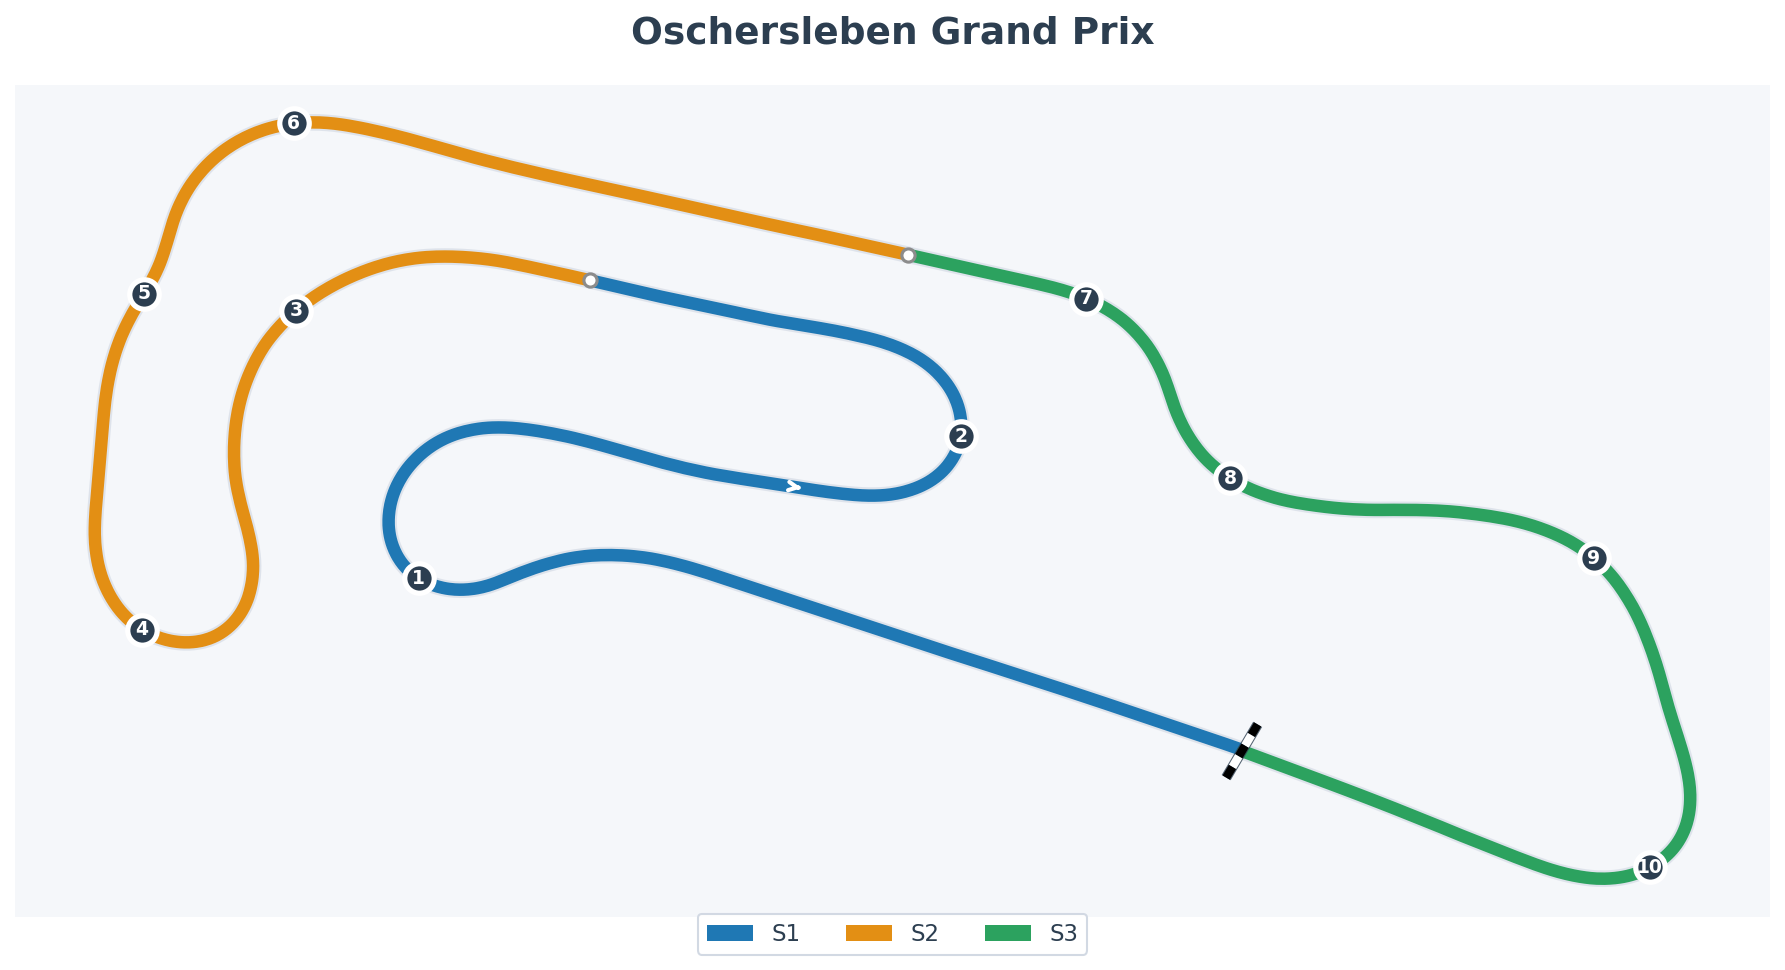
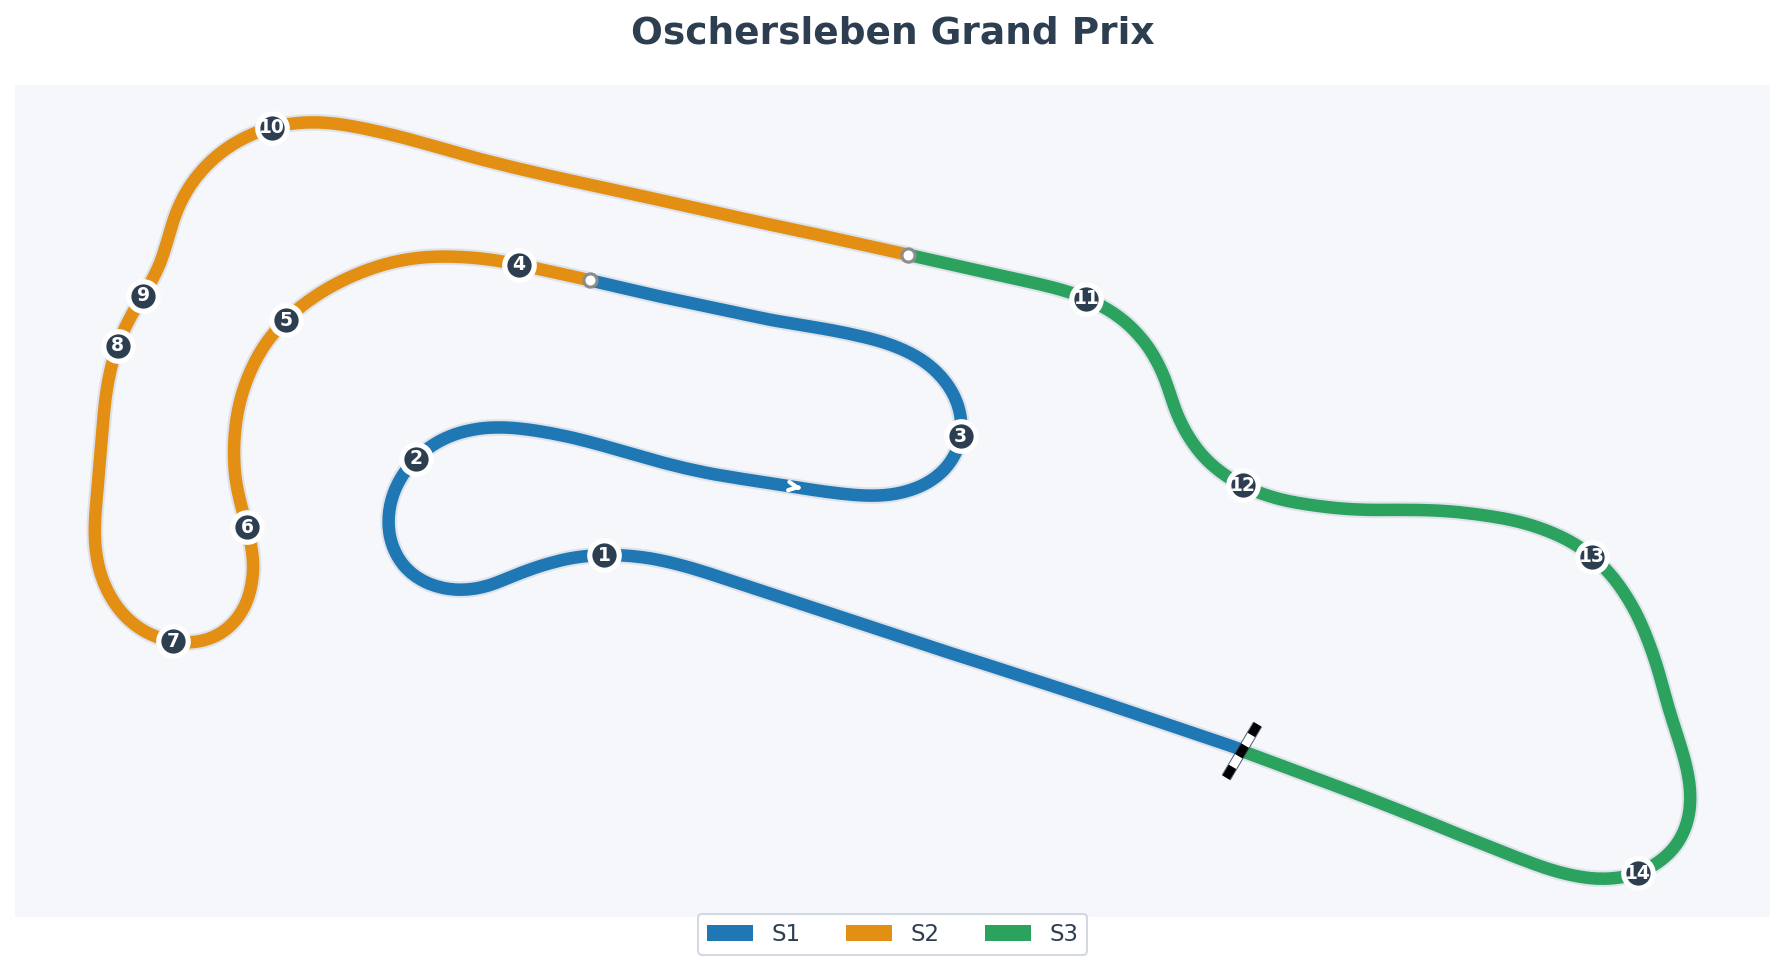
docs: Revise Oschersleben track documentation with updated sector and corner definitions
- Enhanced sector definitions to include specific corner names and improved clarity on track layout.
- Updated corner references to reflect the new 14-turn layout, providing detailed notes for each corner.
- Revised JSON track data to align with the updated naming conventions and structure for better consistency.

diff --git a/tracks/track-motorsport-arena-oschersleben-grand-prix.md b/tracks/track-motorsport-arena-oschersleben-grand-prix.md
@@ -28,30 +28,34 @@ The layout looks straightforward: no wild elevation changes, no Spa-style compre
 
 ## Sector Definitions (iRacing)
 
-| Sector | Approx Time | % of Lap | Corners                                 | Key Challenge                          |
-| :----- | :---------- | :------- | :-------------------------------------- | :------------------------------------- |
-| **S1** | ~34.5s      | 36%      | Hotel (T1), Hasseroeder, Triple         | Heavy braking into T1, technical flow  |
-| **S2** | ~32.9s      | 36%      | T7, Schikane, McDonald's, Stadiongerade | Chicane precision, exit speed          |
-| **S3** | ~26.4s      | 28%      | Shell, Amman, Bauer, Zeppelin           | Fast flowing rhythm, final corner exit |
+| Sector | Approx Time | % of Lap | Corners                              | Key Challenge                          |
+| :----- | :---------- | :------- | :----------------------------------- | :------------------------------------- |
+| **S1** | ~34.5s      | 36%      | T1-T3 (Hotel → Hasseroeder)          | Heavy braking into T1, technical flow  |
+| **S2** | ~32.9s      | 36%      | T4-T10 (Triple → McDonald's)         | Chicane precision, exit speed          |
+| **S3** | ~26.4s      | 28%      | T11-T14 (Shell → Zeppelin)           | Fast flowing rhythm, final corner exit |
 
 > **Note:** S1 contains the chaos magnet (T1 Hotel). Make it boring on purpose. S2 has the signature McDonald's chicane—boring tidy = fast.
 
 ---
 
-## Corner Reference
+## Corner Reference (VRS 14-Turn Layout)
 
-| #      | Track % | Name           | Notes                                              |
-| :----- | :------ | :------------- | :------------------------------------------------- |
-| **1**  | 10-21%  | Hotel          | Chaos magnet. Heavy braking on curved approach. 🔥 |
-| **2**  | 25-32%  | Hasseroeder    | Second corner, sets up Triple                      |
-| **3**  | 37-46%  | Triple         | Three-corner complex, momentum critical            |
-| **4**  | 46-53%  | Turn 7         | Exit sets up chicane                               |
-| **5**  | 54-58%  | Schikane       | Lead-in to McDonald's                              |
-| **6**  | 58-63%  | McDonald's     | THE signature corner. Square it.                   |
-| **7**  | 73-77%  | Shell Kurve    | Fast left, starts S3                               |
-| **8**  | 77-81%  | Amman Kurve    | Flow right                                         |
-| **9**  | 84-88%  | Bauer Kurve    | Tighter right                                      |
-| **10** | 89-95%  | Zeppelin Kurve | Final corner onto straight 🔥                      |
+| #      | Track % | Name            | Notes                                              |
+| :----- | :------ | :-------------- | :------------------------------------------------- |
+| **1**  | 10-14%  | Hotel Entry     | Chaos magnet. Heavy braking on curved approach. 🔥 |
+| **2**  | 15-21%  | Hotel Exit      | Rotation point, sets up run to T3                  |
+| **3**  | 25-32%  | Hasseroeder     | Second corner complex                              |
+| **4**  | 36-40%  | Triple 1        | First of three-corner complex                      |
+| **5**  | 41-44%  | Triple 2        | Middle of complex, momentum critical               |
+| **6**  | 45-48%  | Triple 3        | Exit of complex                                    |
+| **7**  | 49-53%  | Hairpin         | Tight left, sets up chicane run                    |
+| **8**  | 54-56%  | Schikane Entry  | Lead-in to McDonald's                              |
+| **9**  | 57-59%  | Schikane Exit   | Square it for T10                                  |
+| **10** | 60-63%  | McDonald's      | THE signature corner. Square it.                   |
+| **11** | 73-77%  | Shell Kurve     | Fast left, starts S3                               |
+| **12** | 78-81%  | Amman Kurve     | Flow right                                         |
+| **13** | 84-88%  | Bauer Kurve     | Tighter right                                      |
+| **14** | 90-95%  | Zeppelin Kurve  | Final corner onto straight 🔥                      |
 
 ---
 
